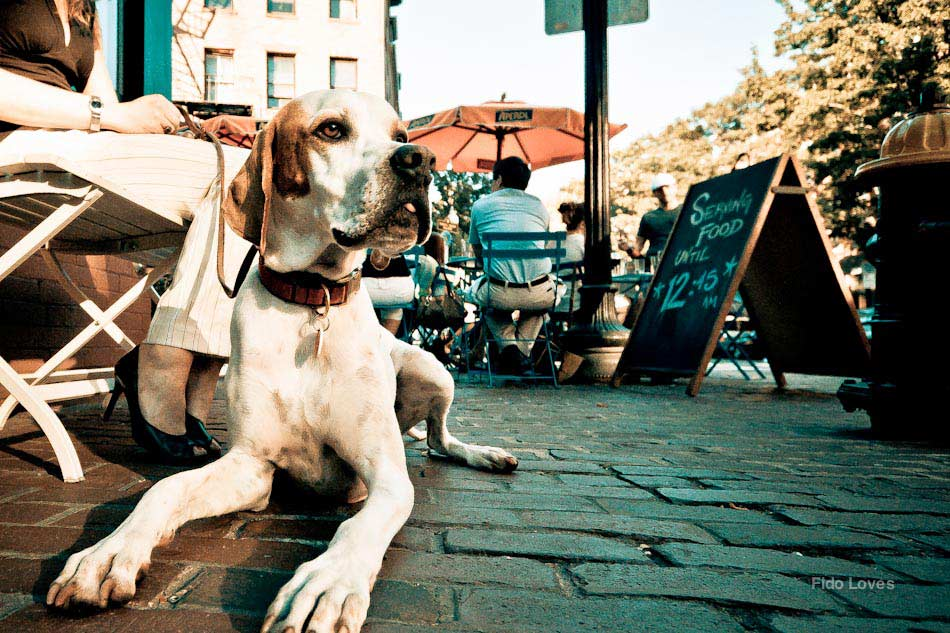
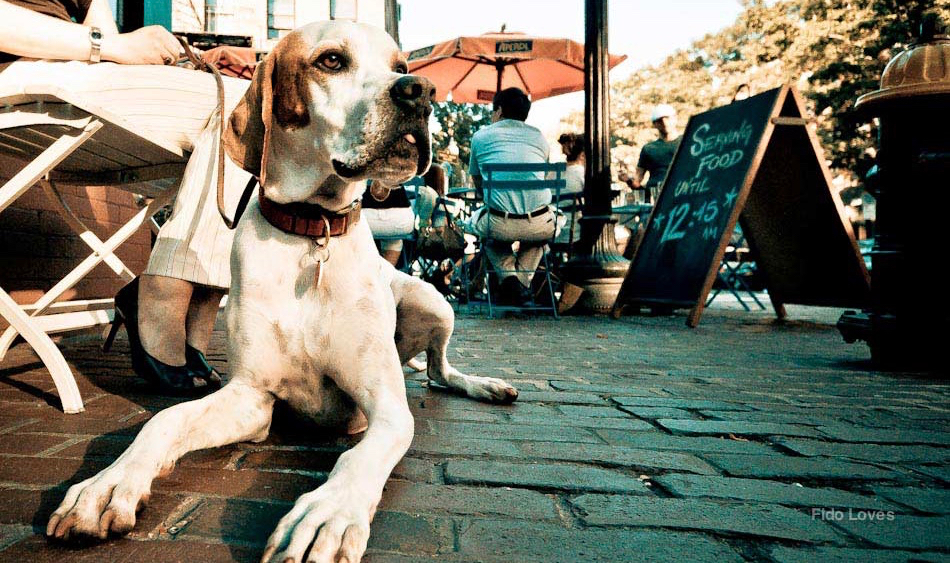
tidy

diff --git a/unit_4/css/style.css b/unit_4/css/style.css
@@ -10,24 +10,15 @@ body {
 	color: #4c4c43;
 	font-family: 'Roboto Slab', serif;
 	line-height: 1.5em;
+	margin:0;
 }
 
 #logospecial {
-	width: 250px;
-	margin: 0px;
-	padding: 0px 20px 0px 20px; 
-	border-style: solid;
-	border-width: thin;
 	line-height: 1.5em;
 	text-align: center;
 }
 
 #reviews {
-	width: 250px;
-	margin: 0px;
-	padding: 20px;
-	border-style: solid;
-	border-width: thin;
 	line-height: 1.5em;
 	text-align: left;
 	font-size: 0.8em;
@@ -36,20 +27,23 @@ body {
 
 #left{
 	float: left;
+	width: 250px;
+	margin-left: 80px;
+	padding: 0px 20px 0px 20px;
 }
 
 #right{
 	width: 1000px;
-	margin-right: 100px;
 	position: relative;
 	float: right;
 }
 
 #booking{
 	text-align: center;
-	padding: 30px 0px 30px 0px;
+	padding: 50px 0px 50px 0px;
 	font-family: 'Montserrat Subrayada', sans-serif;
-	color: 
+	color: #a71a10;
+	font-size: 2em;
 }
 
 h1 {

diff --git a/unit_4/index.html b/unit_4/index.html
@@ -36,7 +36,7 @@
             </p>
         </div>
     </div>
-    
+    <br><br>
     <div id="reviews">
         <p><em>Reviews:</em></p>
 
@@ -49,9 +49,8 @@
     
     <div id="right">
         
-         <center><img src="images/dogcafe.jpg" alt="A dog at a cafe" width="900px"></center>
+         <center><img src="images/dogcafe.jpg" alt="A dog at a cafe" width="1000px"></center>
 
-         <hr>
         <div id="booking">
             <a href="mailto:yangmei.chen2011@gmail.com" style="color: black">Make a Booking</a>
         </div>
